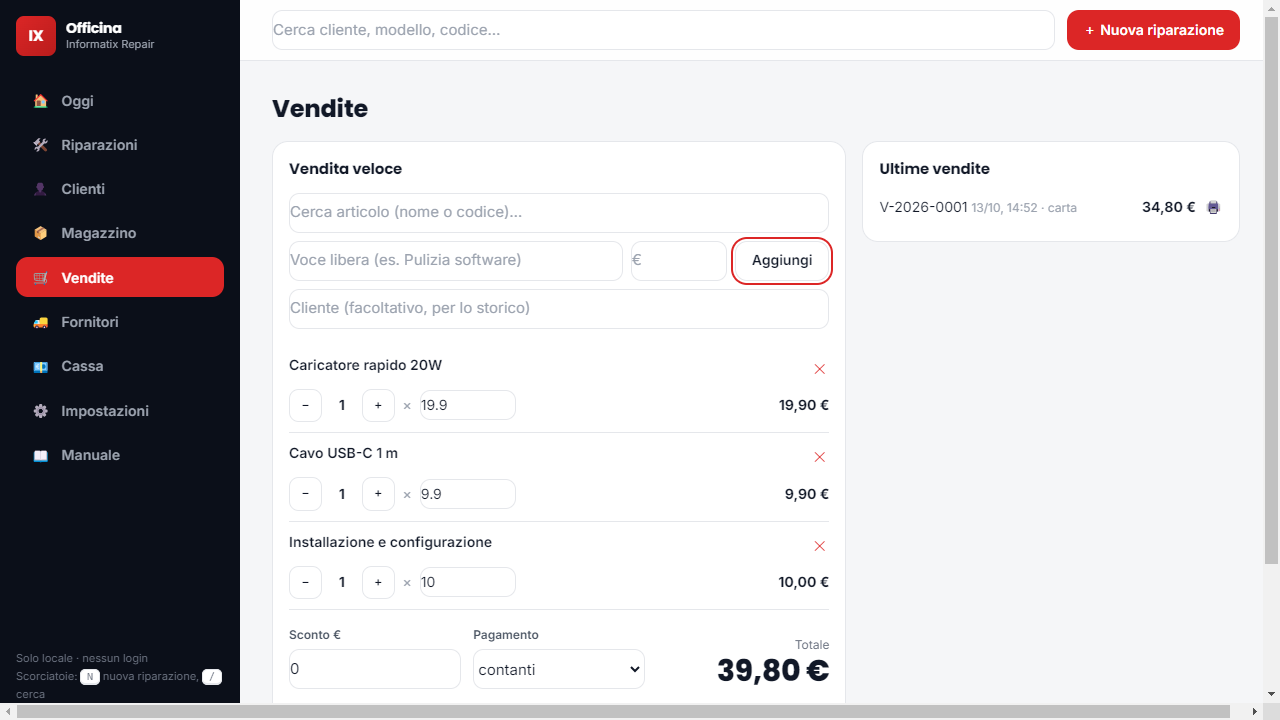
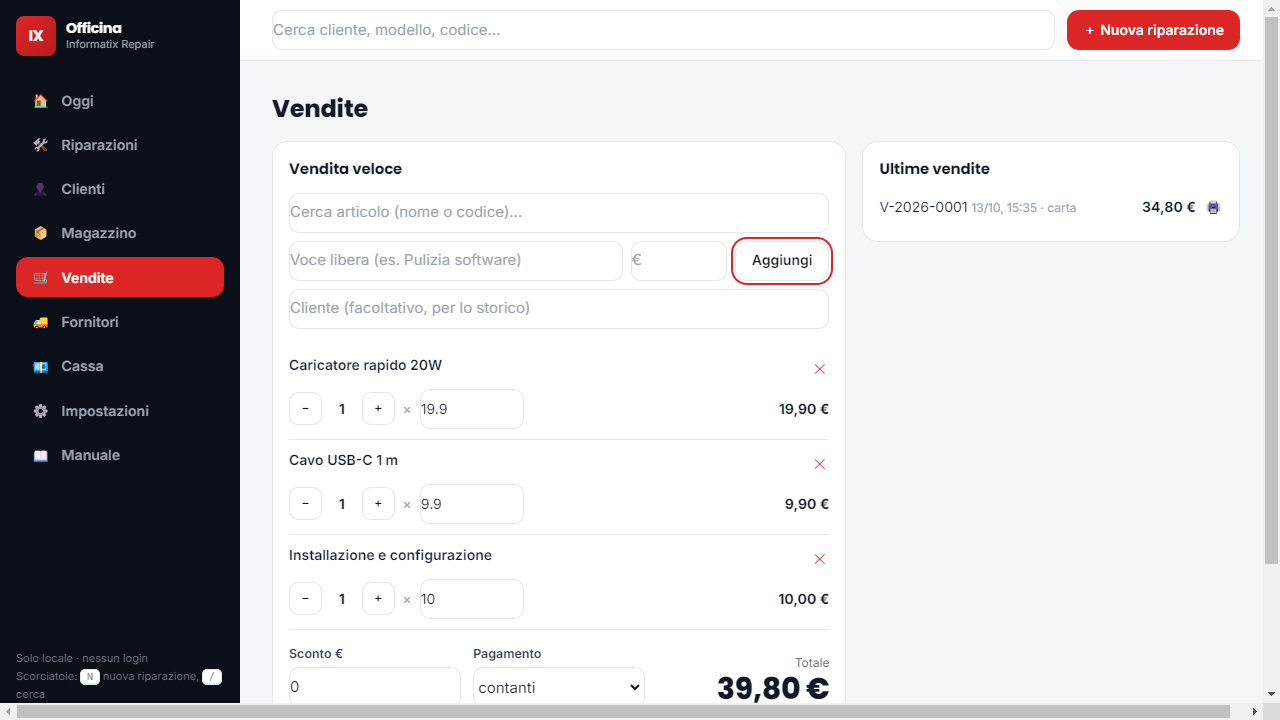
Officina: documentazione revisione grafica, schermate del manuale rigenerate

diff --git a/docs/CHATLOG.md b/docs/CHATLOG.md
@@ -418,6 +418,28 @@ Le pistole USB sono una "tastiera velocissima" che scrive il codice e preme Invi
 - Provare con una pistola vera (modello? impostazione tastiera italiana e suffisso Invio).
 - Fotocamera: provare dopo la messa online https; valutare l'ingresso da telefono con autenticazione.
 
+## Sessione 2026-10-13 (6) – Revisione grafica completa (CSS pulito e responsive)
+
+### Segnalazione dell'utente
+Dagli screenshot inviati: nella scheda riparazione i pulsanti toccavano il titolo "CLIENTE", testi uno addosso all'altro, caselle senza respiro. Richiesta: non solo quelle schermate, **tutto**; "non voglio più vedere errori elementari".
+
+### Causa
+Margini "a caso" sparsi nei template (`sec-t:first-child{margin-top:0}` azzerava lo spazio proprio dove serviva, griglie tailwind improvvisate, doppi badge "Preventivo approvato", righe di testo senza struttura).
+
+### Cosa è cambiato
+- **Sistema di spaziatura unico** in `officina/public/index.html`: `.sec` (blocco con titolo e spazio fisso), `.sec-t`/`.sec-sub`, `.cols`/`.col` (2 colonne da 700 px), `.fgrid c2/c3/c4/m2` + `.field` (etichetta+campo), `.row`, `.kv` (etichetta: valore), `.plist` (elenchi), `.tl` (cronologia), `.total-box`, `.badges`, `.check`, `.suggest` (tendine), `.hint`. Etichette più leggibili (0,78 rem, #374151), textarea con altezza minima e padding.
+- **Tutte le finestre ridisegnate** con il sistema: nuova riparazione, dettaglio riparazione (intestazione con badge/progresso/azioni separata dal resto; colonne Cliente/Dispositivo/Stampe e Preventivo/Ricambi; note, messaggio, cronologia), modifica dati, consegna e incasso, cliente (nuovo e dettaglio), articolo, fornitore.
+- **Telefono**: magazzino e cassa diventano **elenchi a schede** (nome, prezzi, badge, −1/+1) al posto di tabelle tagliate; i filtri di stato scorrono in orizzontale su una riga sola; il piede delle finestre diventa una griglia (azione principale a tutta larghezza, poi Salva/Annulla); pulsanti con testo lungo vanno a capo; campi alti almeno 40 px.
+- Badge duplicato "Preventivo approvato" tolto; toast mostrato **dopo** il ridisegno (evitava click su elementi che sparivano); placeholder accorciati.
+
+### Controllo automatico anti-errori (Cypress, `cypress/e2e/ui-review.cy.js`, nella suite normale)
+Apre ogni pagina e ogni finestra a **telefono 390×844, tablet 768×1024, desktop 1280×860** con dati realistici e verifica via geometria: niente fuori schermo, niente sovrapposizioni tra elementi fratelli, niente contenuti che escono dal contenitore, campi non più stretti di 70 px né più bassi di 38 px su telefono. Salva anche gli screenshot (cypress/screenshots) per la revisione a occhio: eseguita su tutte le schermate. **62 test.** Al primo giro ha trovato 4 problemi veri (riga pulsanti "Da ordinare" che usciva dallo schermo su telefono, campi prezzo del carrello troppo bassi, filtri e tabelle da sistemare), tutti corretti.
+- Suite completa ora: officina 13 + responsive 43 + scanner 10 + ui-review 62 = **128 test verdi**; API 11 test verdi.
+- Manuale: schermate rigenerate con la nuova grafica.
+
+### Regola per il futuro (anche in memoria)
+Usare solo il sistema di spaziatura; per ogni schermata nuova o modificata guardare gli screenshot a 3 formati e far girare `ui-review` prima di consegnare.
+
 ## Routine automatica
 - 2026-09-28 18:03 – pubblicati 2 articoli: "iPhone 18 Pro, il bug che riavvia il telefono dopo un Face ID fallito" e "WhatsApp sta testando un avviso automatico contro le truffe nei messaggi".
 - 2026-09-30 09:03 – pubblicati 2 articoli: "Android, il bollettino di settembre corregge 180 vulnerabilità: il più corposo dell'anno" e "Batterie sostituibili dal 2027, per gli smartphone non ci sarà lo sportellino".

diff --git a/docs/MEMORY.md b/docs/MEMORY.md
@@ -85,6 +85,7 @@ Il registro cronologico delle modifiche è in [CHATLOG.md](CHATLOG.md).
 - **Aggiornamento 2026-10-13 (sera)**: revisione completa fatta (date locali, validazioni, telefono normalizzato, backup, KPI), interfaccia responsive per telefono/tablet/desktop, ricerca globale e scorciatoie, manuale per Christian in `officina/public/manuale.html` (con schermate generate da Cypress), avvio con `AVVIA-OFFICINA.bat`. **Nessun merge in main finché l'utente non lo dice.** Cypress: 53 test verdi su `cypress-tests` (un DB nuovo per file).
 - **Stampa rapida (2026-10-13 sera)**: "🖨 Salva e stampa" produce scheda cliente (QR, senza PIN) + scheda laboratorio (PIN, checklist ingresso/collaudo, diagnosi, ricambi). Nuovo campo `urgent` e note del tecnico. Autenticazione e messa online: da discutere con l'utente.
 - **Lettore codici a barre (2026-10-13 sera)**: pistola USB = tastiera veloce + Invio, riconosciuta lato client (`isScanEnter`); seriale/IMEI con controllo Luhn e avviso "già in archivio"; Code128 su etichetta e scheda lab; scansione a pagina libera apre la riparazione. Fotocamera (`scan.js`) solo dopo messa online in https (non testata con camera reale).
+- **Regola grafica (2026-10-13 sera)**: CSS pulito e responsive. Usare solo il sistema di spaziatura di `officina/public/index.html` (`sec`, `fgrid`, `field`, `kv`, `cols`, `row`, `plist`, `tl`…), mai margini a caso. Prima di consegnare una schermata: guardare gli screenshot a telefono/tablet/desktop e far girare `cypress/e2e/ui-review.cy.js` (controllo automatico di sovrapposizioni, overflow, campi troppo piccoli). Su telefono magazzino e cassa sono elenchi a schede, non tabelle.
 
 ## Gestionale Usati (pannello admin) — in evoluzione, vedi CHATLOG 2026-09-27 (sera)
 - **Stato 2026-10-13**: pannello locale senza login (127.0.0.1:4848) funzionante; bot Telegram scritto in `bot/` (vedi `bot/README.md`) e testato solo con Update simulati, non su Telegram reale né installato. API del gestionale: GET/POST `/api/items`, PUT/PATCH/DELETE `/api/items/:slug`, POST `/api/items/:slug/sold|unsold`.
